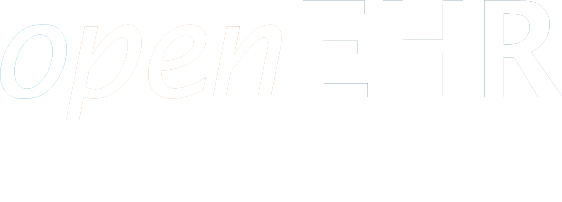
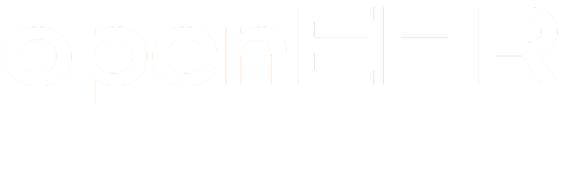
update/content

diff --git a/_includes/header.html b/_includes/header.html
@@ -32,7 +32,7 @@
             </li>
           </ul>
         
-       <a class="navbar-brand js-scroll-trigger" href="{{ site.url }}#page-top"><img src="/img/logo-neg.png" height="40"></a>
+       <a class="navbar-brand js-scroll-trigger" href="{{ site.url }}#page-top"><img src="/img/logo-neg.png" height="36"></a>
                   
         </div>
       </div>
